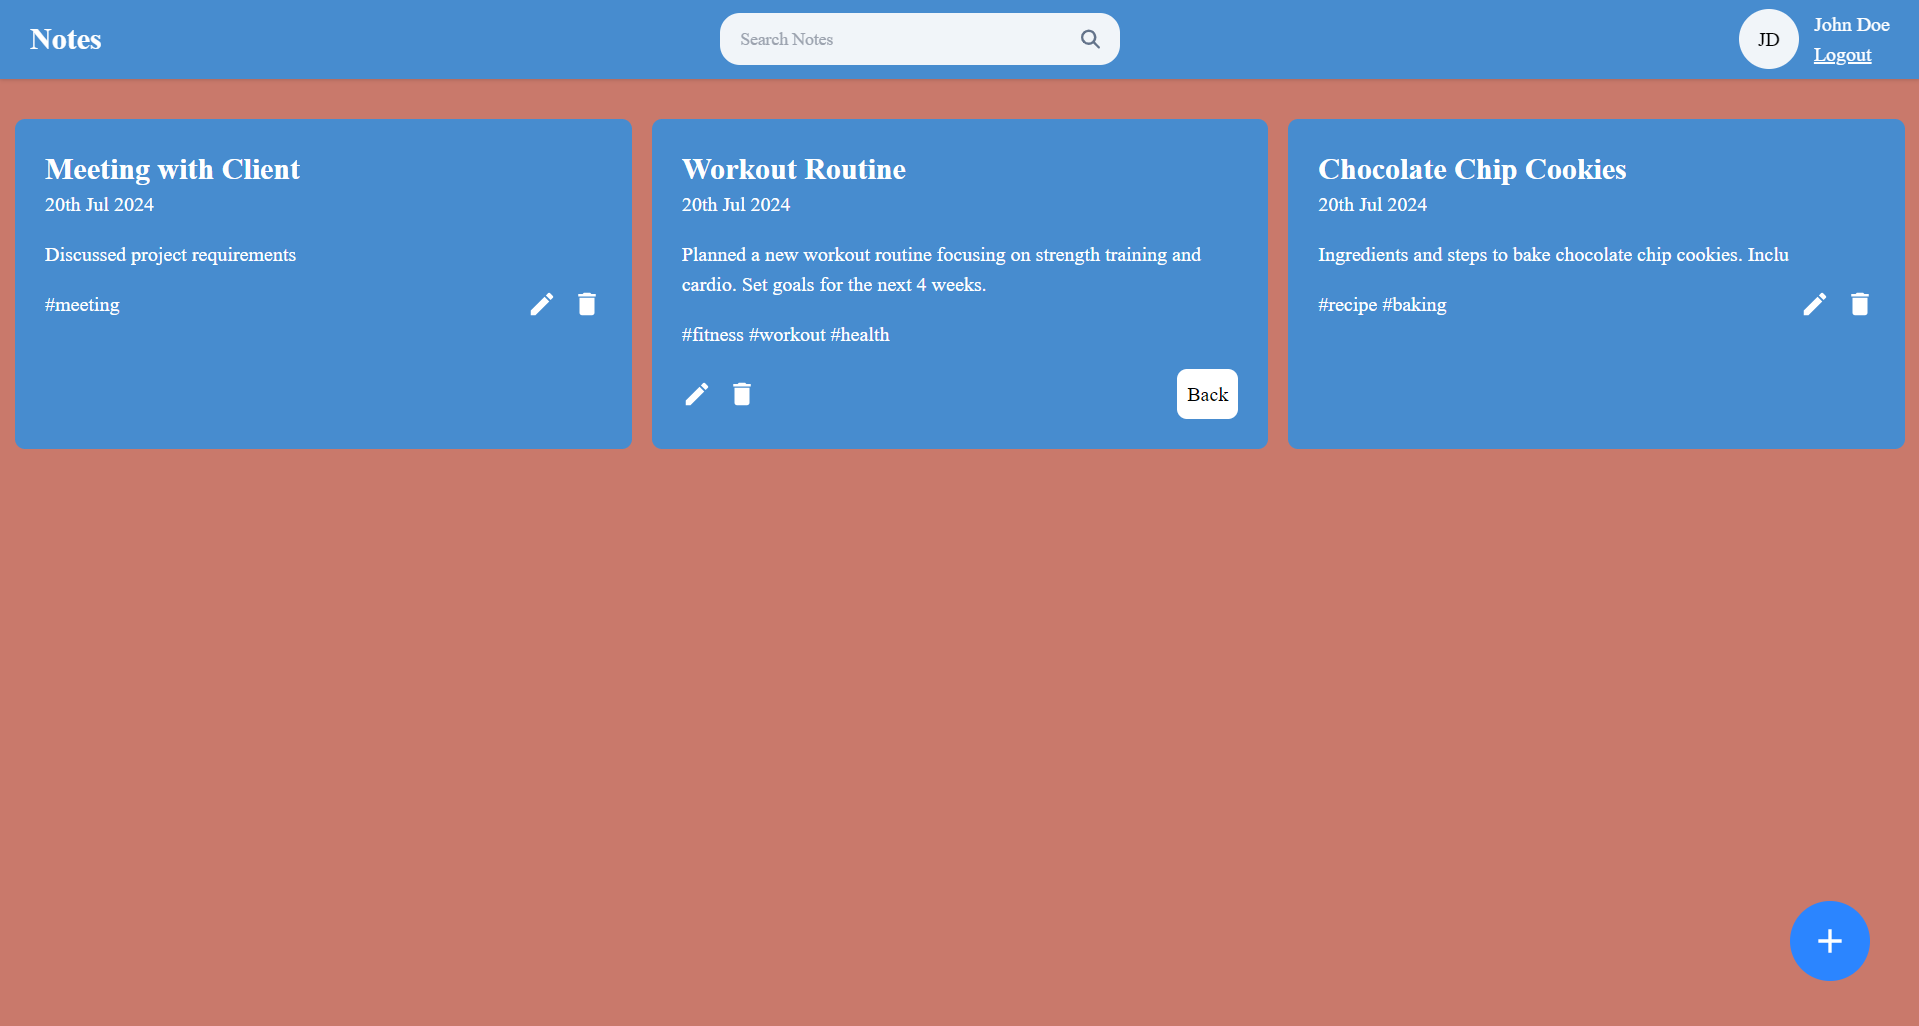
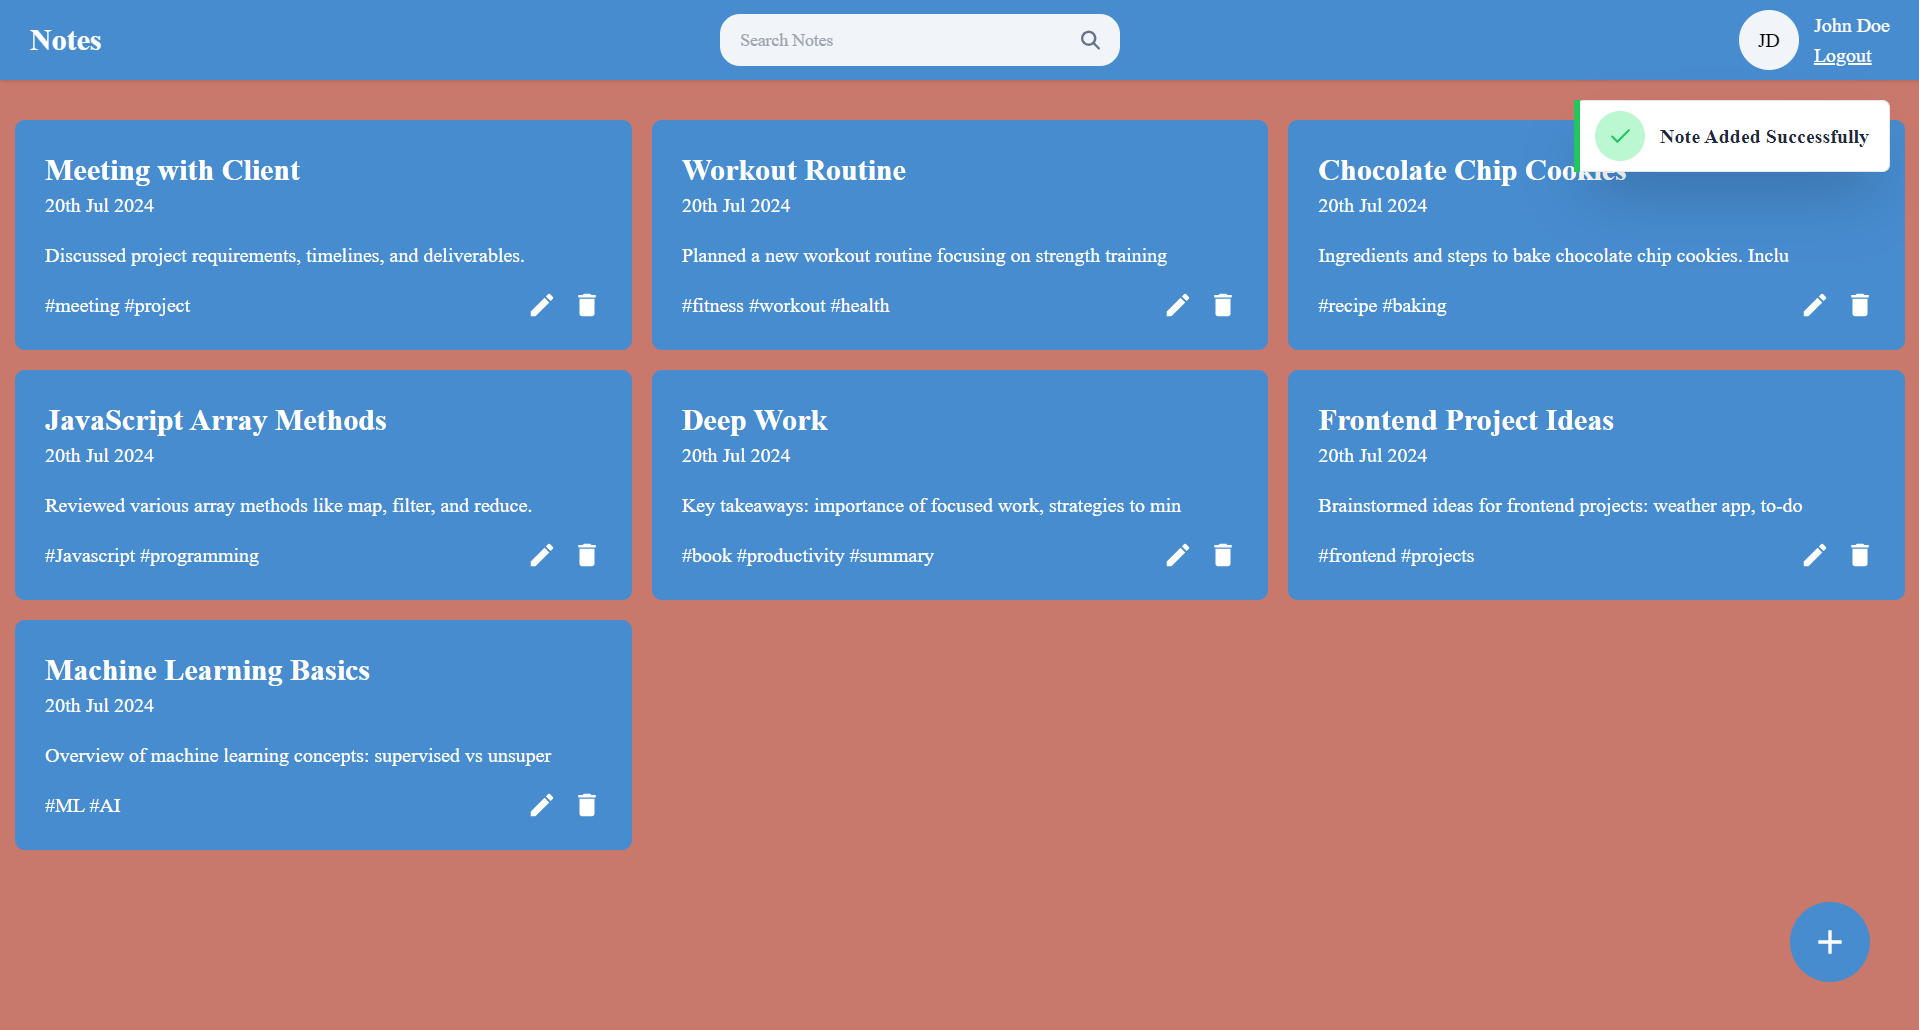
minor testing

diff --git a/frontend/tailwind.config.js b/frontend/tailwind.config.js
@@ -4,7 +4,7 @@ export default {
   theme: {
     extend: {
       colors: {
-        primary: "#2b85ff",
+        primary: "#478CCF",
         secondary: "#ef863e",
         cardbg: "#478CCF",
       }

diff --git a/README.md b/README.md
@@ -51,7 +51,7 @@ Ensure you have the following installed:
 4. **Install Frontend Dependencies and run**
 
     ```bash
-    cd ../frontend
+    cd frontend
     npm install
     npm run dev
 
